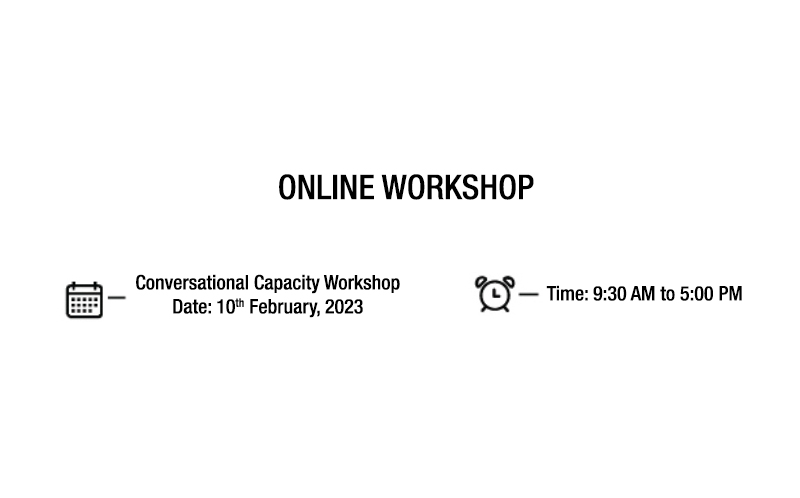
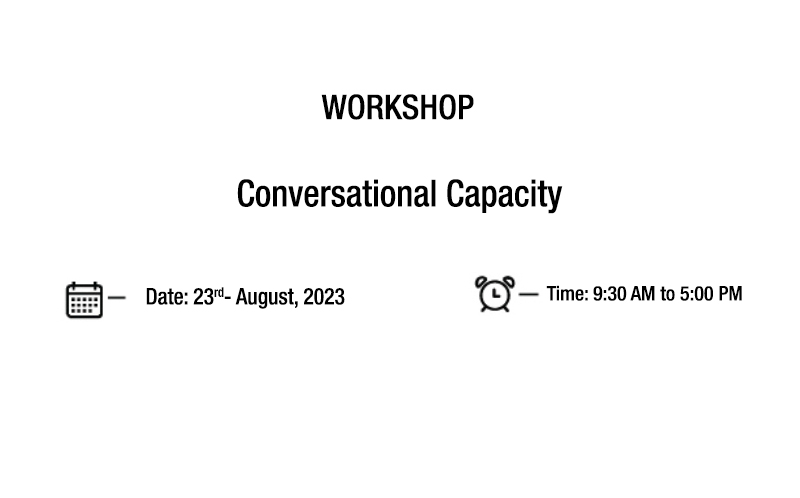
ff
cc

Changed region(s): [[0.2812, 0.3313, 0.7188, 0.4217], [0.1562, 0.5422, 0.5, 0.6325], [0.4062, 0.1807, 0.5938, 0.241]]

diff --git a/pages/lp/slx-lp.js b/pages/lp/slx-lp.js
@@ -101,7 +101,8 @@ export default function HybridWorkplaces() {
                            <label>Interested In*</label>
                            <select name="interest_in" className="form-control" required>
                               <option value="">---Select---</option>
-                              <option value="The SLII Experience™ - Virtual - July 4th - 5th, 2023">The SLII Experience™ - Virtual - July 4th - 5th, 2023</option>
+                              <option value="The SLII Experience™ - Virtual - August 7th - 8th, 2023">The SLII Experience™ - Virtual - August 7th - 8th, 2023</option>
+                              <option value="The SLII Experience™ - T4T - August 9th - 10th, 2023">The SLII Experience™ - T4T - August 9th - 10th, 2023</option>
                            </select>
                            <div className="help-block with-errors"></div>
                         </div>

diff --git a/pages/lp/conversational-capacity-workshop.js b/pages/lp/conversational-capacity-workshop.js
@@ -100,7 +100,7 @@ export default function ConversationalCapacityWebinar() {
                            <div className="form-group">
                               <label>Program Name*</label>                              
                               <select className="form-control" name="interest_in" required>
-                                 <option value="Conversational Capacity Workshop: 10th February, 2023">Conversational Capacity Workshop: 10th February, 2023</option>
+                                 <option value="Conversational Capacity Workshop: 23rd August, 2023">Conversational Capacity Workshop: 23rd August, 2023</option>
                               </select>
                               <div className="help-block with-errors"></div>
                            </div>
